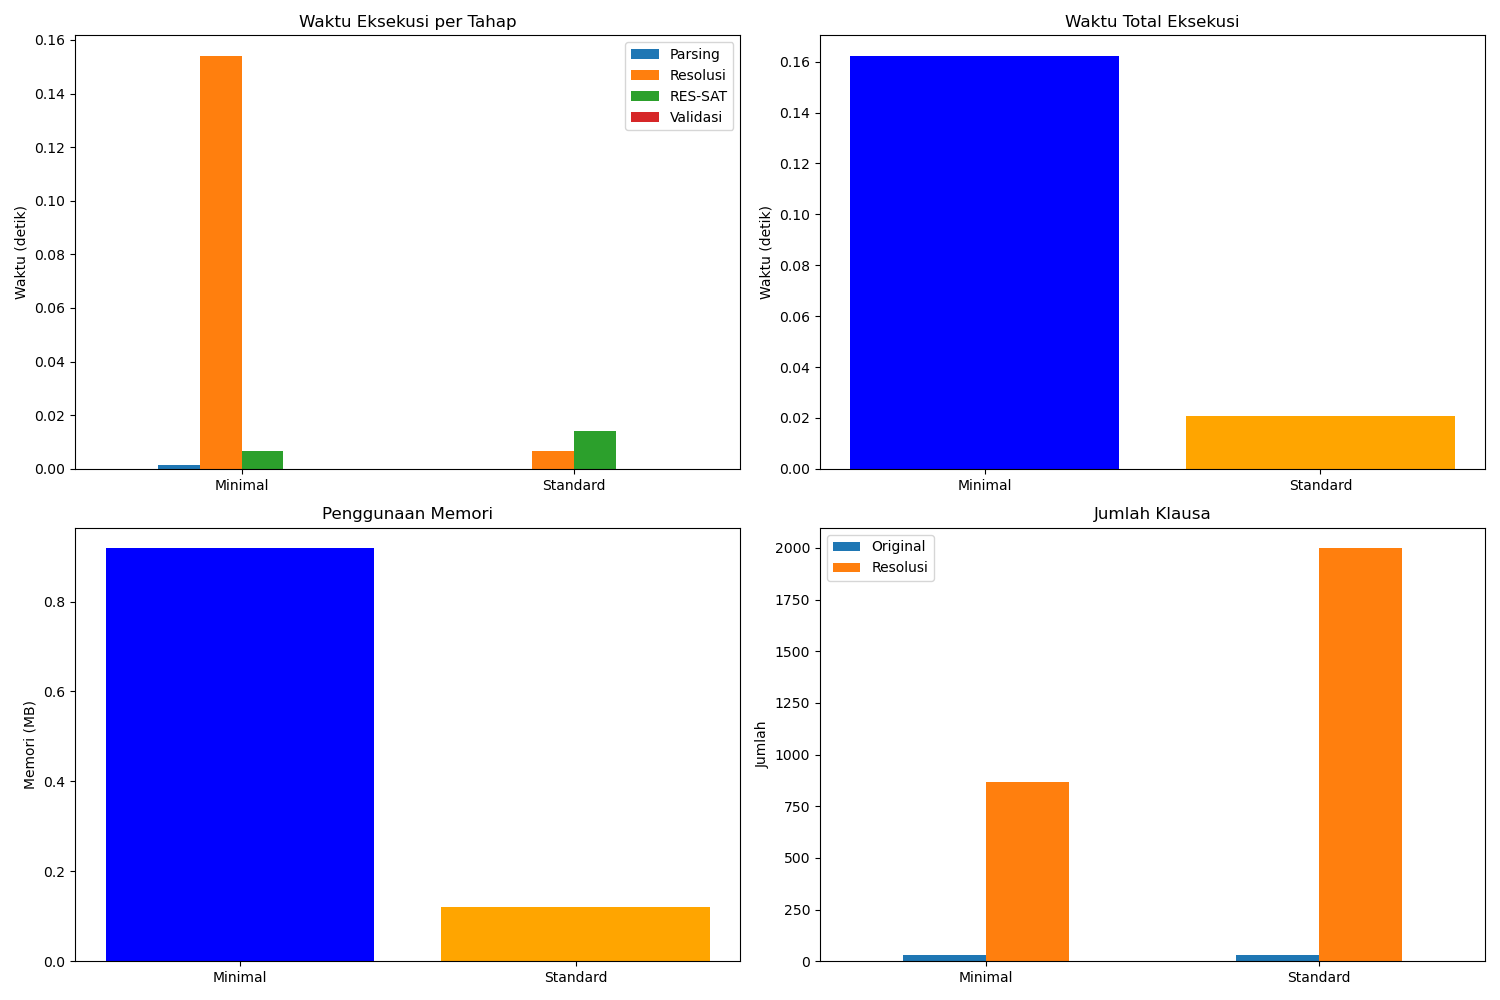
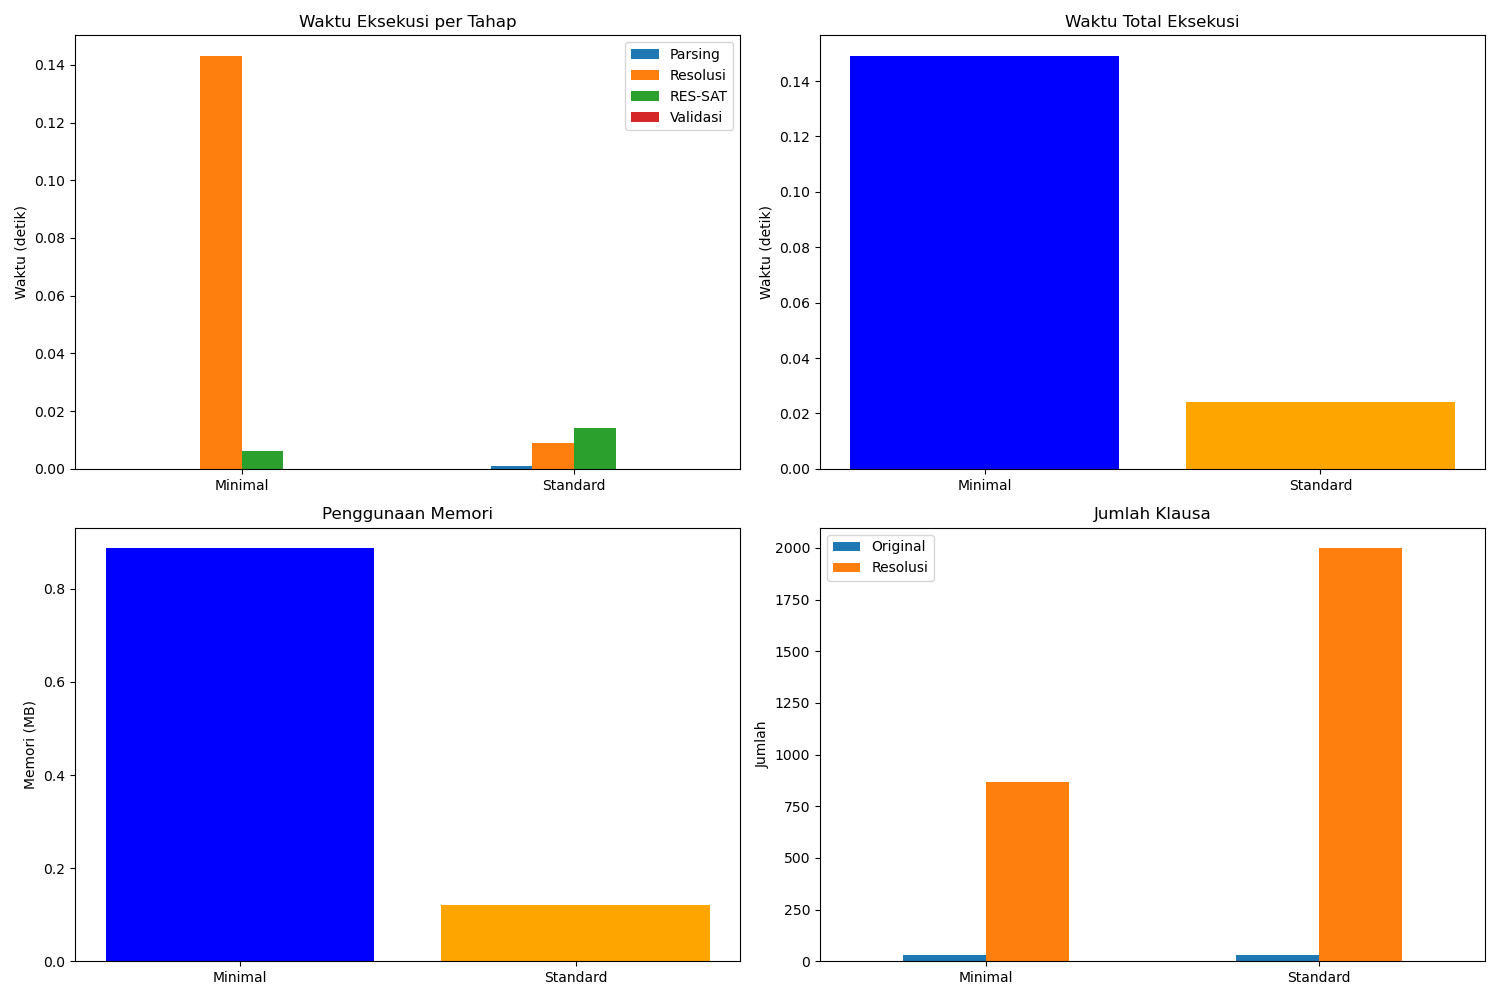
add bonus

diff --git a/src/resolvent_generator.py b/src/resolvent_generator.py
@@ -17,6 +17,38 @@ def filter_minimal(clauses):
                 break
     return minimal
 
+def generate_resolvents(clauses, max_iterations=2, max_resolvents=10000):
+    R = set(clauses)
+    iteration = 0
+    new_resolvents = set()
+    changed = True
+
+    while changed and iteration < max_iterations and len(R) < max_resolvents:
+        iteration += 1
+        changed = False
+        current_clauses = list(R)
+        for i in range(len(current_clauses)):
+            for j in range(i+1, len(current_clauses)):
+                c1 = current_clauses[i]
+                c2 = current_clauses[j]
+                for literal in c1:
+                    if -literal in c2:
+                        resolvent = (c1 - {literal}) | (c2 - {-literal})
+                        # Skip tautologies
+                        if any(l in resolvent and -l in resolvent for l in resolvent):
+                            continue
+                        resolvent = frozenset(resolvent)
+                        if resolvent not in R and resolvent not in new_resolvents:
+                            new_resolvents.add(resolvent)
+        if new_resolvents:
+            R |= new_resolvents
+            print(f"Iteration {iteration}: added {len(new_resolvents)} new resolvents; total now: {len(R)}")
+            new_resolvents = set()
+            changed = True
+        else:
+            print(f"Iteration {iteration}: no new resolvents found, stopping.")
+    return R
+
 def generate_resolvents_minimal(clauses, max_iterations=2, max_resolvents=10000, verbose = True):
     """
     Generate the resolution closure R = RES(S) with only minimal resolvents.

diff --git a/src/benchmarking.py b/src/benchmarking.py
@@ -4,7 +4,7 @@ import os
 import psutil
 import matplotlib.pyplot as plt
 from cnf_parser import parse_cnf
-from resolvent_generator import generate_resolvents_minimal
+from resolvent_generator import generate_resolvents_minimal, generate_resolvents
 from res_sat import res_sat
 from validator import validate_interpretation
 import pandas as pd
@@ -29,7 +29,7 @@ def measure_performance(cnf_file, use_minimal=True, verbose=True):
     
     # Parse file CNF
     start_time = time.time()
-    num_vars, clauses = parse_cnf(cnf_file)
+    num_vars, clauses, _ = parse_cnf(cnf_file)
     parse_time = time.time() - start_time
     
     if verbose:
@@ -41,8 +41,8 @@ def measure_performance(cnf_file, use_minimal=True, verbose=True):
     start_time = time.time()
     if use_minimal:
         R = generate_resolvents_minimal(clauses)
-    # else:
-    #     R = generate_resolvents(clauses)
+    else:
+        R = generate_resolvents(clauses)
     resolvent_time = time.time() - start_time
     
     if verbose:

diff --git a/src/main.py b/src/main.py
@@ -1,6 +1,6 @@
 import sys
 from cnf_parser import parse_cnf
-from resolvent_generator import generate_resolvents_minimal
+from resolvent_generator import generate_resolvents_minimal, generate_resolvents
 from res_sat import res_sat
 from validator import validate_interpretation
 
@@ -17,7 +17,7 @@ def main():
     print(f"Number of clauses: {len(clauses)}")
     
     print("Generating resolution closure (this may take some time for large inputs)...")
-    R = generate_resolvents_minimal(clauses)
+    R = generate_resolvents(clauses)
     print(f"Resolution closure generated with {len(R)} clauses.")
     
     print("Running RES-SAT procedure...")
